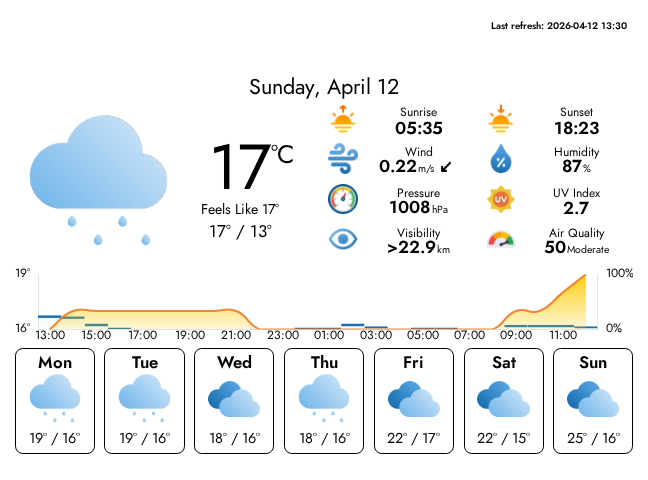
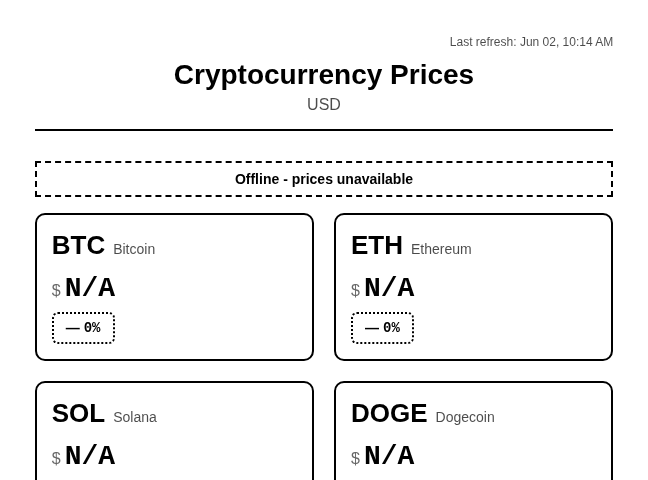
refine crypto plugin and add tests
Add unit tests for the crypto plugin and polish the implementation
with better offline fallback handling and cache management.

Changed region(s): [[0.0309, 0.125, 0.9877, 0.9688], [0.7099, 0.0312, 0.9877, 0.0938], [0.5247, 0.5625, 0.6481, 0.625]]

diff --git a/src/plugins/crypto/render/crypto.html b/src/plugins/crypto/render/crypto.html
@@ -11,6 +11,15 @@
     <div class="subtitle">{{ currency }}</div>
   </div>
 
+  {% if status_message %}
+  <div class="status-message {{ data_status }}">
+    {{ status_message }}
+    {% if data_updated_at %}
+    <span>Updated: {{ data_updated_at }}</span>
+    {% endif %}
+  </div>
+  {% endif %}
+
   <div class="crypto-list">
     {% for crypto in crypto_data %}
     <div class="crypto-item">

diff --git a/src/plugins/crypto/render/crypto.css b/src/plugins/crypto/render/crypto.css
@@ -36,6 +36,23 @@
   opacity: 0.7;
 }
 
+.status-message {
+  border: 2px solid #000;
+  border-style: dashed;
+  font-size: 14px;
+  font-weight: bold;
+  margin-bottom: 16px;
+  padding: 8px 12px;
+  text-align: center;
+}
+
+.status-message span {
+  display: block;
+  font-size: 11px;
+  font-weight: normal;
+  margin-top: 3px;
+}
+
 .crypto-list {
   flex: 1;
   display: grid;

diff --git a/src/plugins/crypto/crypto.py b/src/plugins/crypto/crypto.py
@@ -1,8 +1,12 @@
 from plugins.base_plugin.base_plugin import BasePlugin
+from utils.app_utils import resolve_path
 import requests
 import logging
 from datetime import datetime
 import pytz
+import json
+import os
+import re
 
 logger = logging.getLogger(__name__)
 
@@ -28,6 +32,8 @@ SUPPORTED_CURRENCIES = {
 }
 
 class Crypto(BasePlugin):
+    CACHE_DIR = resolve_path(os.path.join("static", "cache", "crypto"))
+
     def generate_settings_template(self):
         template_params = super().generate_settings_template()
         template_params['style_settings'] = True
@@ -39,7 +45,9 @@ class Crypto(BasePlugin):
         try:
             # Get settings
             currency = settings.get('currency', 'usd').lower()
-            selected_cryptos = settings.get('selectedCryptos', ['bitcoin', 'ethereum', 'solana', 'dogecoin'])
+            selected_cryptos = self.normalize_crypto_ids(
+                settings.get('selectedCryptos', ['bitcoin', 'ethereum', 'solana', 'dogecoin'])
+            )
             display_change = settings.get('displayChange', 'true') == 'true'
             refresh_time = settings.get('displayRefreshTime', 'true') == 'true'
 
@@ -47,7 +55,7 @@ class Crypto(BasePlugin):
                 currency = 'usd'
 
             # Fetch crypto data
-            crypto_data = self.fetch_crypto_prices(selected_cryptos, currency, display_change)
+            crypto_result = self.fetch_crypto_prices(selected_cryptos, currency, display_change)
 
             # Get timezone for last refresh time
             timezone_name = device_config.get_config("timezone", default="America/New_York")
@@ -60,12 +68,15 @@ class Crypto(BasePlugin):
                 dimensions = dimensions[::-1]
 
             template_params = {
-                'crypto_data': crypto_data,
+                'crypto_data': crypto_result['data'],
                 'currency_symbol': SUPPORTED_CURRENCIES[currency]['symbol'],
                 'currency': currency.upper(),
                 'display_change': display_change,
                 'display_refresh_time': refresh_time,
                 'last_refresh_time': current_time.strftime("%b %d, %I:%M %p"),
+                'data_status': crypto_result['status'],
+                'status_message': crypto_result['message'],
+                'data_updated_at': crypto_result.get('updated_at'),
                 'plugin_settings': settings
             }
 
@@ -81,53 +92,118 @@ class Crypto(BasePlugin):
             logger.error(f"Crypto image generation failed: {str(e)}")
             raise
 
+    def normalize_crypto_ids(self, crypto_ids):
+        if isinstance(crypto_ids, str):
+            crypto_ids = [crypto_ids]
+
+        normalized = [crypto_id for crypto_id in crypto_ids if crypto_id in SUPPORTED_CRYPTOS]
+        return normalized or ['bitcoin', 'ethereum', 'solana', 'dogecoin']
+
     def fetch_crypto_prices(self, crypto_ids, currency, include_change=True):
-        """Fetch cryptocurrency prices from CoinGecko API"""
+        """Fetch cryptocurrency prices from CoinGecko API, falling back to cached data."""
         try:
-            # Build API parameters
-            ids = ','.join(crypto_ids)
-            params = {
-                'ids': ids,
-                'vs_currencies': currency,
+            data = self.fetch_coingecko_data(crypto_ids, currency, include_change)
+            crypto_list = self.parse_crypto_data(data, crypto_ids, currency)
+            result = {
+                'data': crypto_list,
+                'status': 'live',
+                'message': '',
+                'updated_at': datetime.now().strftime("%b %d, %I:%M %p")
             }
-
-            if include_change:
-                params['include_24hr_change'] = 'true'
-                params['include_24hr_vol'] = 'true'
-
-            # Make API request
-            response = requests.get(COINGECKO_API_URL, params=params, timeout=10)
-            response.raise_for_status()
-            data = response.json()
-
-            # Process the data
-            crypto_list = []
-            for crypto_id in crypto_ids:
-                if crypto_id in data:
-                    crypto_info = SUPPORTED_CRYPTOS.get(crypto_id, {})
-                    price_data = data[crypto_id]
-
-                    price = price_data.get(currency, 0)
-                    change_24h = price_data.get(f'{currency}_24h_change', 0)
-
-                    crypto_list.append({
-                        'id': crypto_id,
-                        'symbol': crypto_info.get('symbol', crypto_id.upper()),
-                        'name': crypto_info.get('name', crypto_id.capitalize()),
-                        'price': self.format_price(price),
-                        'price_raw': price,
-                        'change_24h': round(change_24h, 2) if change_24h else 0,
-                        'change_direction': 'up' if change_24h > 0 else 'down' if change_24h < 0 else 'neutral'
-                    })
-
-            return crypto_list
-
+            self.write_cached_prices(crypto_ids, currency, result)
+            return result
         except requests.exceptions.RequestException as e:
-            logger.error(f"Failed to fetch crypto prices: {str(e)}")
-            raise RuntimeError(f"Failed to fetch cryptocurrency data: {str(e)}")
+            logger.warning(f"Failed to fetch crypto prices: {str(e)}")
+            cached_result = self.read_cached_prices(crypto_ids, currency)
+            if cached_result:
+                cached_result['status'] = 'cached'
+                cached_result['message'] = 'Offline - showing last saved prices'
+                return cached_result
+
+            return {
+                'data': self.build_unavailable_crypto_data(crypto_ids),
+                'status': 'offline',
+                'message': 'Offline - prices unavailable',
+                'updated_at': None
+            }
         except Exception as e:
             logger.error(f"Error processing crypto data: {str(e)}")
             raise RuntimeError(f"Error processing cryptocurrency data: {str(e)}")
+
+    def fetch_coingecko_data(self, crypto_ids, currency, include_change):
+        ids = ','.join(crypto_ids)
+        params = {
+            'ids': ids,
+            'vs_currencies': currency,
+        }
+
+        if include_change:
+            params['include_24hr_change'] = 'true'
+            params['include_24hr_vol'] = 'true'
+
+        response = requests.get(COINGECKO_API_URL, params=params, timeout=10)
+        response.raise_for_status()
+        return response.json()
+
+    def parse_crypto_data(self, data, crypto_ids, currency):
+        crypto_list = []
+        for crypto_id in crypto_ids:
+            if crypto_id in data:
+                crypto_info = SUPPORTED_CRYPTOS.get(crypto_id, {})
+                price_data = data[crypto_id]
+
+                price = price_data.get(currency, 0)
+                change_24h = price_data.get(f'{currency}_24h_change', 0)
+
+                crypto_list.append({
+                    'id': crypto_id,
+                    'symbol': crypto_info.get('symbol', crypto_id.upper()),
+                    'name': crypto_info.get('name', crypto_id.capitalize()),
+                    'price': self.format_price(price),
+                    'price_raw': price,
+                    'change_24h': round(change_24h, 2) if change_24h else 0,
+                    'change_direction': 'up' if change_24h > 0 else 'down' if change_24h < 0 else 'neutral'
+                })
+
+        return crypto_list
+
+    def build_unavailable_crypto_data(self, crypto_ids):
+        crypto_list = []
+        for crypto_id in crypto_ids:
+            crypto_info = SUPPORTED_CRYPTOS.get(crypto_id, {})
+            crypto_list.append({
+                'id': crypto_id,
+                'symbol': crypto_info.get('symbol', crypto_id.upper()),
+                'name': crypto_info.get('name', crypto_id.capitalize()),
+                'price': 'N/A',
+                'price_raw': None,
+                'change_24h': 0,
+                'change_direction': 'neutral'
+            })
+
+        return crypto_list
+
+    def cache_file_path(self, crypto_ids, currency):
+        ids = '_'.join(crypto_ids)
+        safe_ids = re.sub(r'[^a-z0-9_-]+', '_', ids.lower())
+        safe_currency = re.sub(r'[^a-z0-9_-]+', '_', currency.lower())
+        return os.path.join(self.CACHE_DIR, f"{safe_ids}_{safe_currency}.json")
+
+    def write_cached_prices(self, crypto_ids, currency, result):
+        try:
+            os.makedirs(self.CACHE_DIR, exist_ok=True)
+            with open(self.cache_file_path(crypto_ids, currency), 'w') as cache_file:
+                json.dump(result, cache_file)
+        except OSError as e:
+            logger.warning(f"Failed to write crypto price cache: {str(e)}")
+
+    def read_cached_prices(self, crypto_ids, currency):
+        try:
+            with open(self.cache_file_path(crypto_ids, currency)) as cache_file:
+                return json.load(cache_file)
+        except (OSError, json.JSONDecodeError) as e:
+            logger.info(f"No usable crypto price cache found: {str(e)}")
+            return None
 
     def format_price(self, price):
         """Format price with appropriate decimal places"""

diff --git a/tests/test_crypto.py b/tests/test_crypto.py
@@ -1,0 +1,59 @@
+import json
+
+import pytest
+import requests
+
+from src.plugins.crypto.crypto import Crypto
+
+
+@pytest.fixture
+def crypto_plugin(tmp_path, monkeypatch):
+    monkeypatch.setattr(Crypto, "CACHE_DIR", str(tmp_path))
+    return Crypto({"id": "crypto"})
+
+
+def test_fetch_crypto_prices_uses_cache_when_request_fails(crypto_plugin):
+    cached_result = {
+        "data": [
+            {
+                "id": "bitcoin",
+                "symbol": "BTC",
+                "name": "Bitcoin",
+                "price": "10.00",
+                "price_raw": 10,
+                "change_24h": 1.23,
+                "change_direction": "up",
+            }
+        ],
+        "status": "live",
+        "message": "",
+        "updated_at": "Jun 02, 10:30 AM",
+    }
+
+    cache_path = crypto_plugin.cache_file_path(["bitcoin"], "usd")
+    with open(cache_path, "w") as cache_file:
+        json.dump(cached_result, cache_file)
+
+    def fail_request(*args, **kwargs):
+        raise requests.exceptions.ConnectionError("network unavailable")
+
+    crypto_plugin.fetch_coingecko_data = fail_request
+
+    result = crypto_plugin.fetch_crypto_prices(["bitcoin"], "usd")
+
+    assert result["status"] == "cached"
+    assert result["message"] == "Offline - showing last saved prices"
+    assert result["data"][0]["price"] == "10.00"
+
+
+def test_fetch_crypto_prices_returns_offline_data_without_cache(crypto_plugin):
+    def fail_request(*args, **kwargs):
+        raise requests.exceptions.ConnectionError("network unavailable")
+
+    crypto_plugin.fetch_coingecko_data = fail_request
+
+    result = crypto_plugin.fetch_crypto_prices(["bitcoin", "ethereum"], "usd")
+
+    assert result["status"] == "offline"
+    assert result["message"] == "Offline - prices unavailable"
+    assert [crypto["price"] for crypto in result["data"]] == ["N/A", "N/A"]
